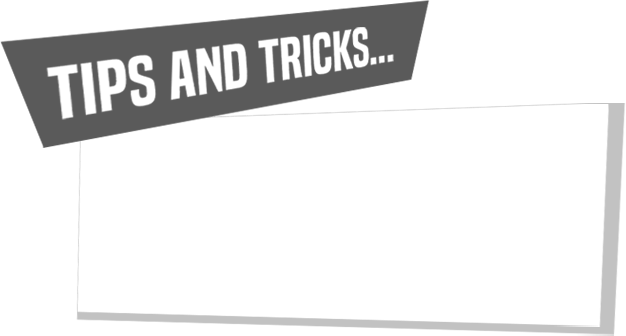
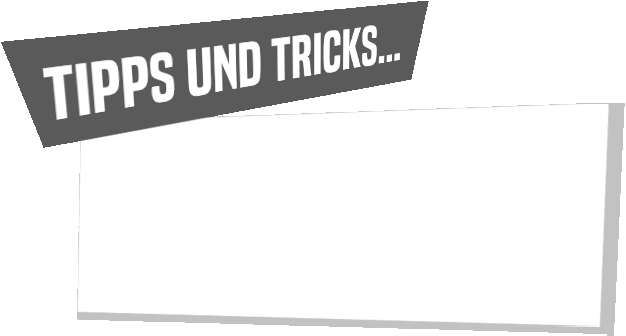
Champ'd Up

diff --git a/main/pp7/worldchampions/script.js b/main/pp7/worldchampions/script.js
@@ -21064,12 +21064,12 @@ const zx = Ct.View.extend({
                 tipTaperFactor: 1
             },
             strings: He.extend({}, jn.prototype.model.defaults.strings, {
-                name_modal_text: "Name your champion:",
+                name_modal_text: "Benenne deinen Champion:",
                 name_modal_confirm: "OK",
-                name_modal_cancel: "Cancel",
-                name_error_empty: "You need to write something!",
-                ERROR_REJECTED_OBJECT: "That's not allowed, enter something else!",
-                ERROR_REJECTED_TEXT: "That's not allowed, enter something else!"
+                name_modal_cancel: "Abbrechen",
+                name_error_empty: "Du musst etwas schreiben!",
+                ERROR_REJECTED_OBJECT: "Das kannst du nicht schreiben. Schreib etwas anderes!",
+                ERROR_REJECTED_TEXT: "Das kannst du nicht schreiben. Schreib etwas anderes!"
             })
         })
     }),
